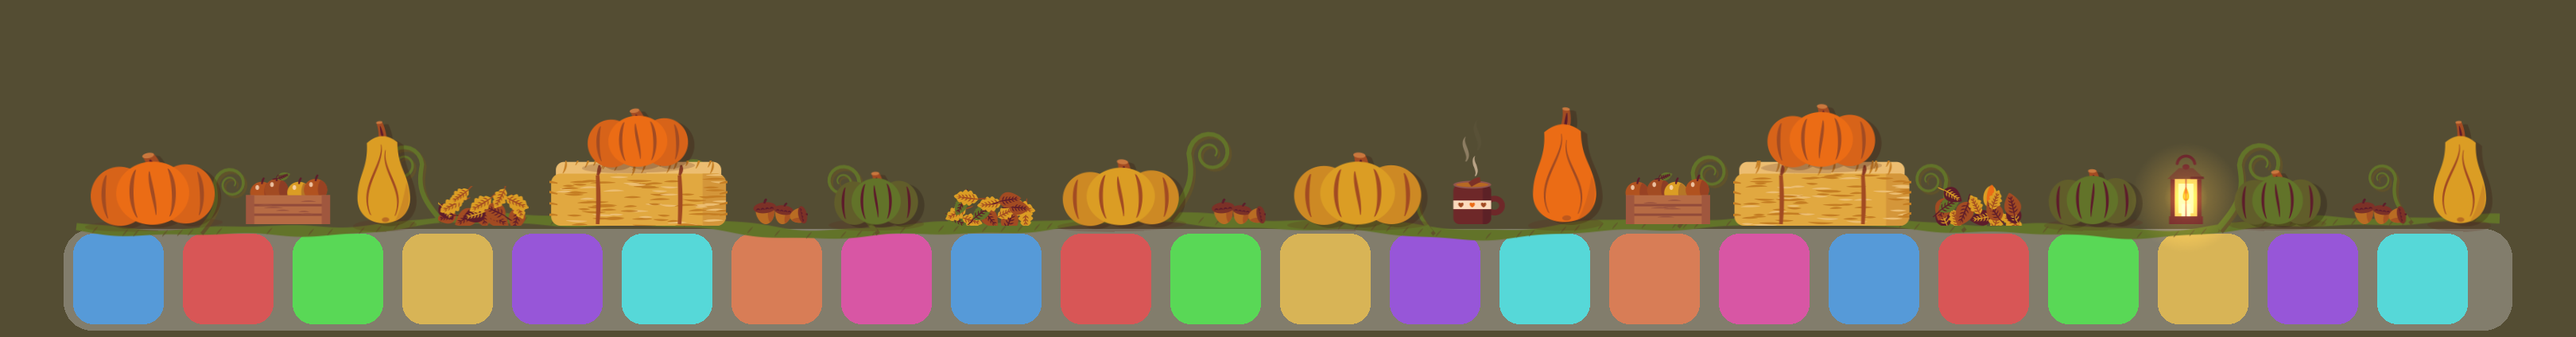
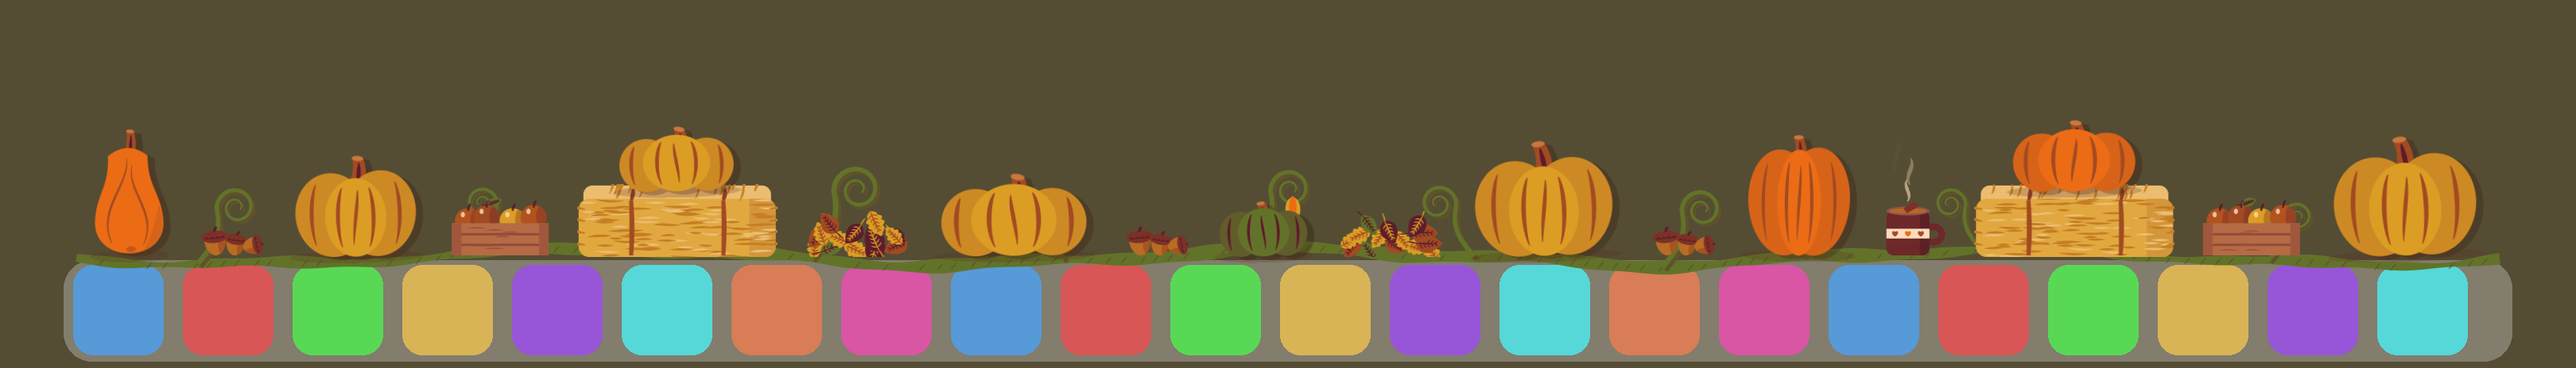
Follow Dock resizes made with the pointer on the Dock, and grow the pumpkins
- A new Dock size that arrived while the Dock was magnified (for example
  while dragging its divider to resize it) was dropped, and the overlay
  had already recorded it, so the harvest and vine kept the old length.
  The scene now keeps that size and applies it once the pointer leaves.
- The Dock width estimate counts the recent apps section properly: the
  running apps that aren't pinned plus the recently used ones.
- Pumpkins are 90 pt tall instead of 80.

Changed region(s): [[0.0, 0.3066, 0.9975, 0.7665], [0.0312, 0.9505, 0.9664, 1.0], [0.4676, 0.3986, 0.4988, 0.4292]]

diff --git a/FallDock/Overlay/PumpkinScene.swift b/FallDock/Overlay/PumpkinScene.swift
@@ -64,6 +64,8 @@ final class PumpkinScene: SKScene {
     private var lastUpdate: TimeInterval = 0
     private var vineWarpStrength: CGFloat = -1
     private var vineWarpX: CGFloat = 0
+    /// A new Dock size that arrived while the Dock was magnified.
+    private var pendingDockRect: CGRect?
 
     /// Size unit for the vine: 1 for a typical 60 pt pumpkin.
     var unit: CGFloat { pumpkinHeight / 60 }
@@ -92,7 +94,7 @@ final class PumpkinScene: SKScene {
 
     /// How tall pumpkins are. It stays the same whatever size the Dock is: a longer Dock fits more
     /// pumpkins and decorations rather than bigger ones.
-    static let itemHeight: CGFloat = 80
+    static let itemHeight: CGFloat = 90
     /// Decorations are drawn a bit smaller than the pumpkins.
     static let decorScale: CGFloat = 0.75
     var decorUnit: CGFloat { (pumpkinHeight * Self.decorScale).rounded() }
@@ -102,9 +104,17 @@ final class PumpkinScene: SKScene {
     func configure(dockRect: CGRect, pixelScale: CGFloat, magnifier: DockMagnifier, regrow: Bool) {
         self.magnifier = magnifier
         let fresh = regrow || pixelScale != self.pixelScale || self.dockRect.width == 0
-        guard fresh || dockRect != self.dockRect else { return }
-        // The Dock's measured width can swell while it magnifies; wait until it settles.
-        if !fresh && magnifyStrength > 0.01 { return }
+        guard fresh || dockRect != self.dockRect else {
+            pendingDockRect = nil
+            return
+        }
+        // The Dock's measured width can swell while it magnifies, so wait until the pointer leaves it
+        // (`update` applies it then). Resizing by dragging the Dock's divider happens with the pointer on it.
+        if !fresh && magnifyStrength > 0.01 {
+            pendingDockRect = dockRect
+            return
+        }
+        pendingDockRect = nil
 
         self.dockRect = dockRect
         self.pixelScale = pixelScale
@@ -315,6 +325,9 @@ final class PumpkinScene: SKScene {
         // The Dock eases in and out of magnification, but tracks the pointer instantly.
         magnifyStrength += ((onDock ? 1 : 0) - magnifyStrength) * (1 - exp(-CGFloat(dt) * 14))
         if magnifyStrength < 0.001 { magnifyStrength = 0 }
+        if let pending = pendingDockRect, magnifyStrength == 0 {
+            configure(dockRect: pending, pixelScale: pixelScale, magnifier: magnifier, regrow: false)
+        }
 
         for case let sprite as DockSprite in pumpkinLayer.children where !sprite.isDetached {
             place(sprite)

diff --git a/FallDock/Overlay/DockLocator.swift b/FallDock/Overlay/DockLocator.swift
@@ -151,13 +151,17 @@ enum DockLocator {
         let pinnedIDs: Set<String> = Set(pinned.compactMap { entry in
             (entry["tile-data"] as? [String: Any])?["bundle-identifier"] as? String
         })
-        let unpinnedRunning = NSWorkspace.shared.runningApplications.filter { app in
-            app.activationPolicy == .regular
-                && app.bundleIdentifier != "com.apple.finder"
-                && !(app.bundleIdentifier.map { pinnedIDs.contains($0) } ?? false)
-        }.count
-
-        let extras = unpinnedRunning + (showRecents ? 1 : 0)
+        let unpinnedRunning = Set(NSWorkspace.shared.runningApplications.compactMap { app -> String? in
+            guard app.activationPolicy == .regular, let id = app.bundleIdentifier,
+                  id != "com.apple.finder", !pinnedIDs.contains(id) else { return nil }
+            return id
+        })
+        // The section after the pinned apps holds the running apps that aren't pinned, plus the
+        // recently used ones when "Show suggested and recent apps" is on.
+        let recents = showRecents ? Set((dock?.array(forKey: "recent-apps") as? [[String: Any]] ?? []).compactMap { entry in
+            (entry["tile-data"] as? [String: Any])?["bundle-identifier"] as? String
+        }) : []
+        let extras = unpinnedRunning.union(recents).subtracting(pinnedIDs).count
         let tiles = 1 /* Finder */ + pinned.count + extras + others + 1 /* Trash */
         let separators = extras > 0 ? 2 : 1
 
